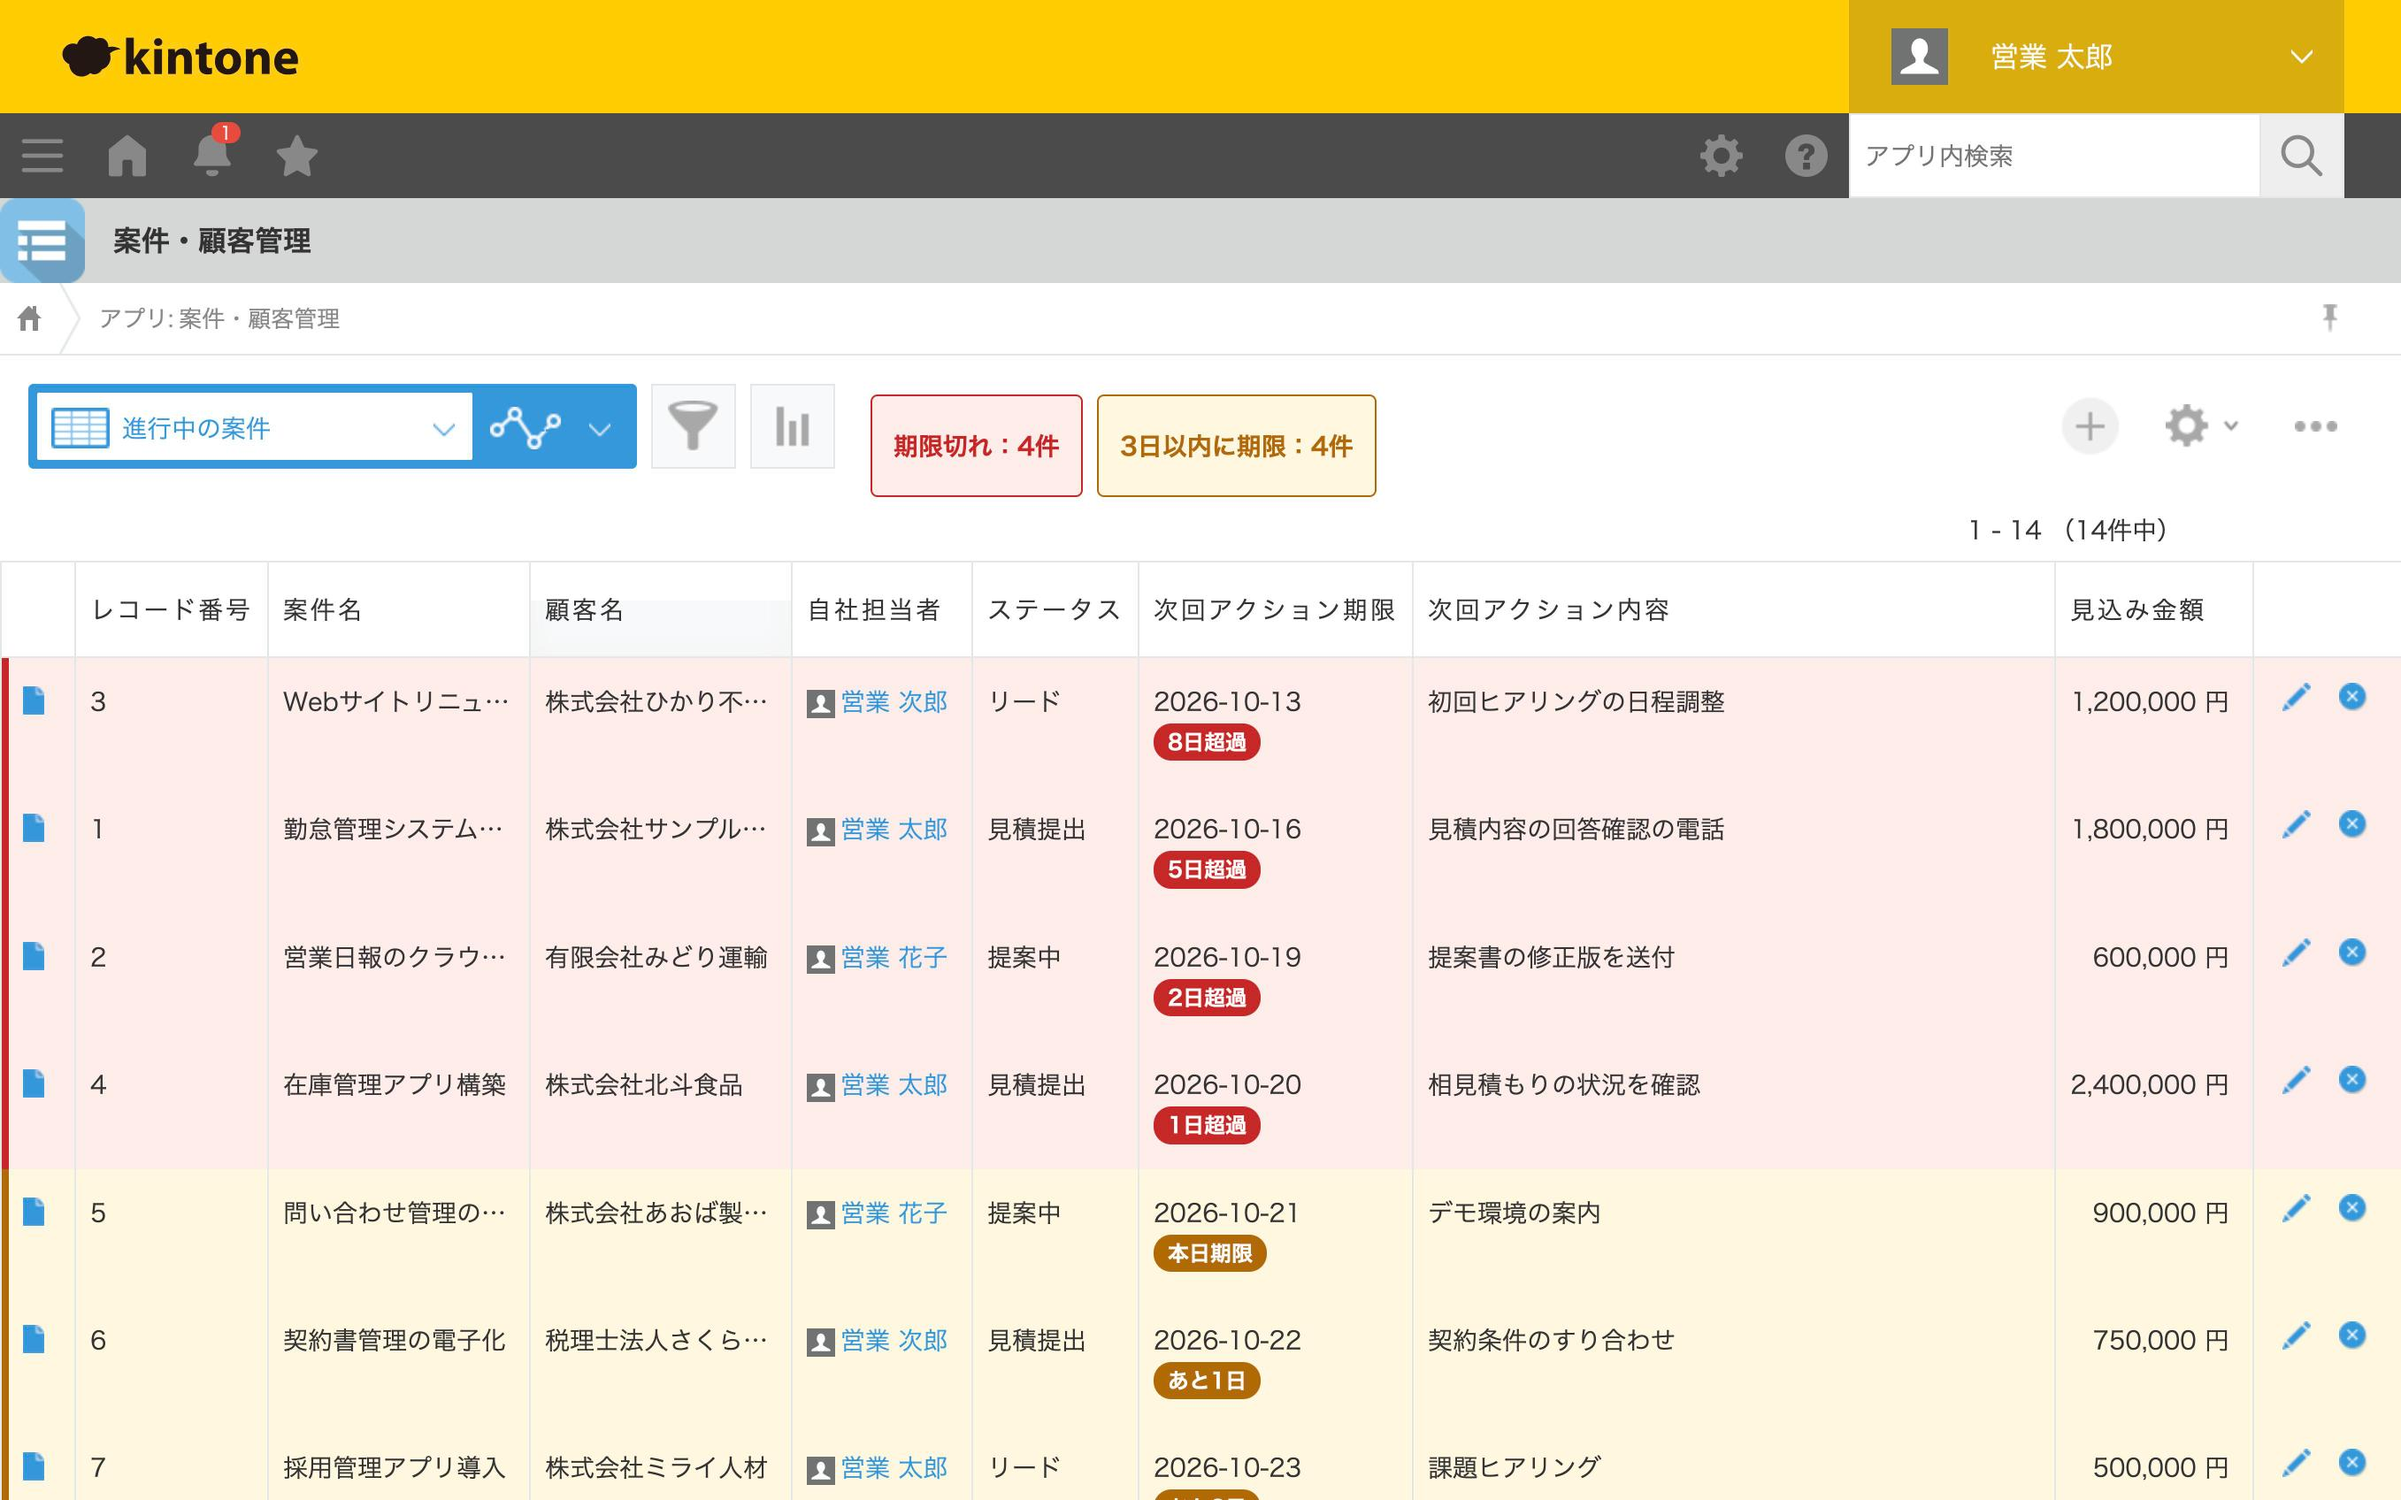
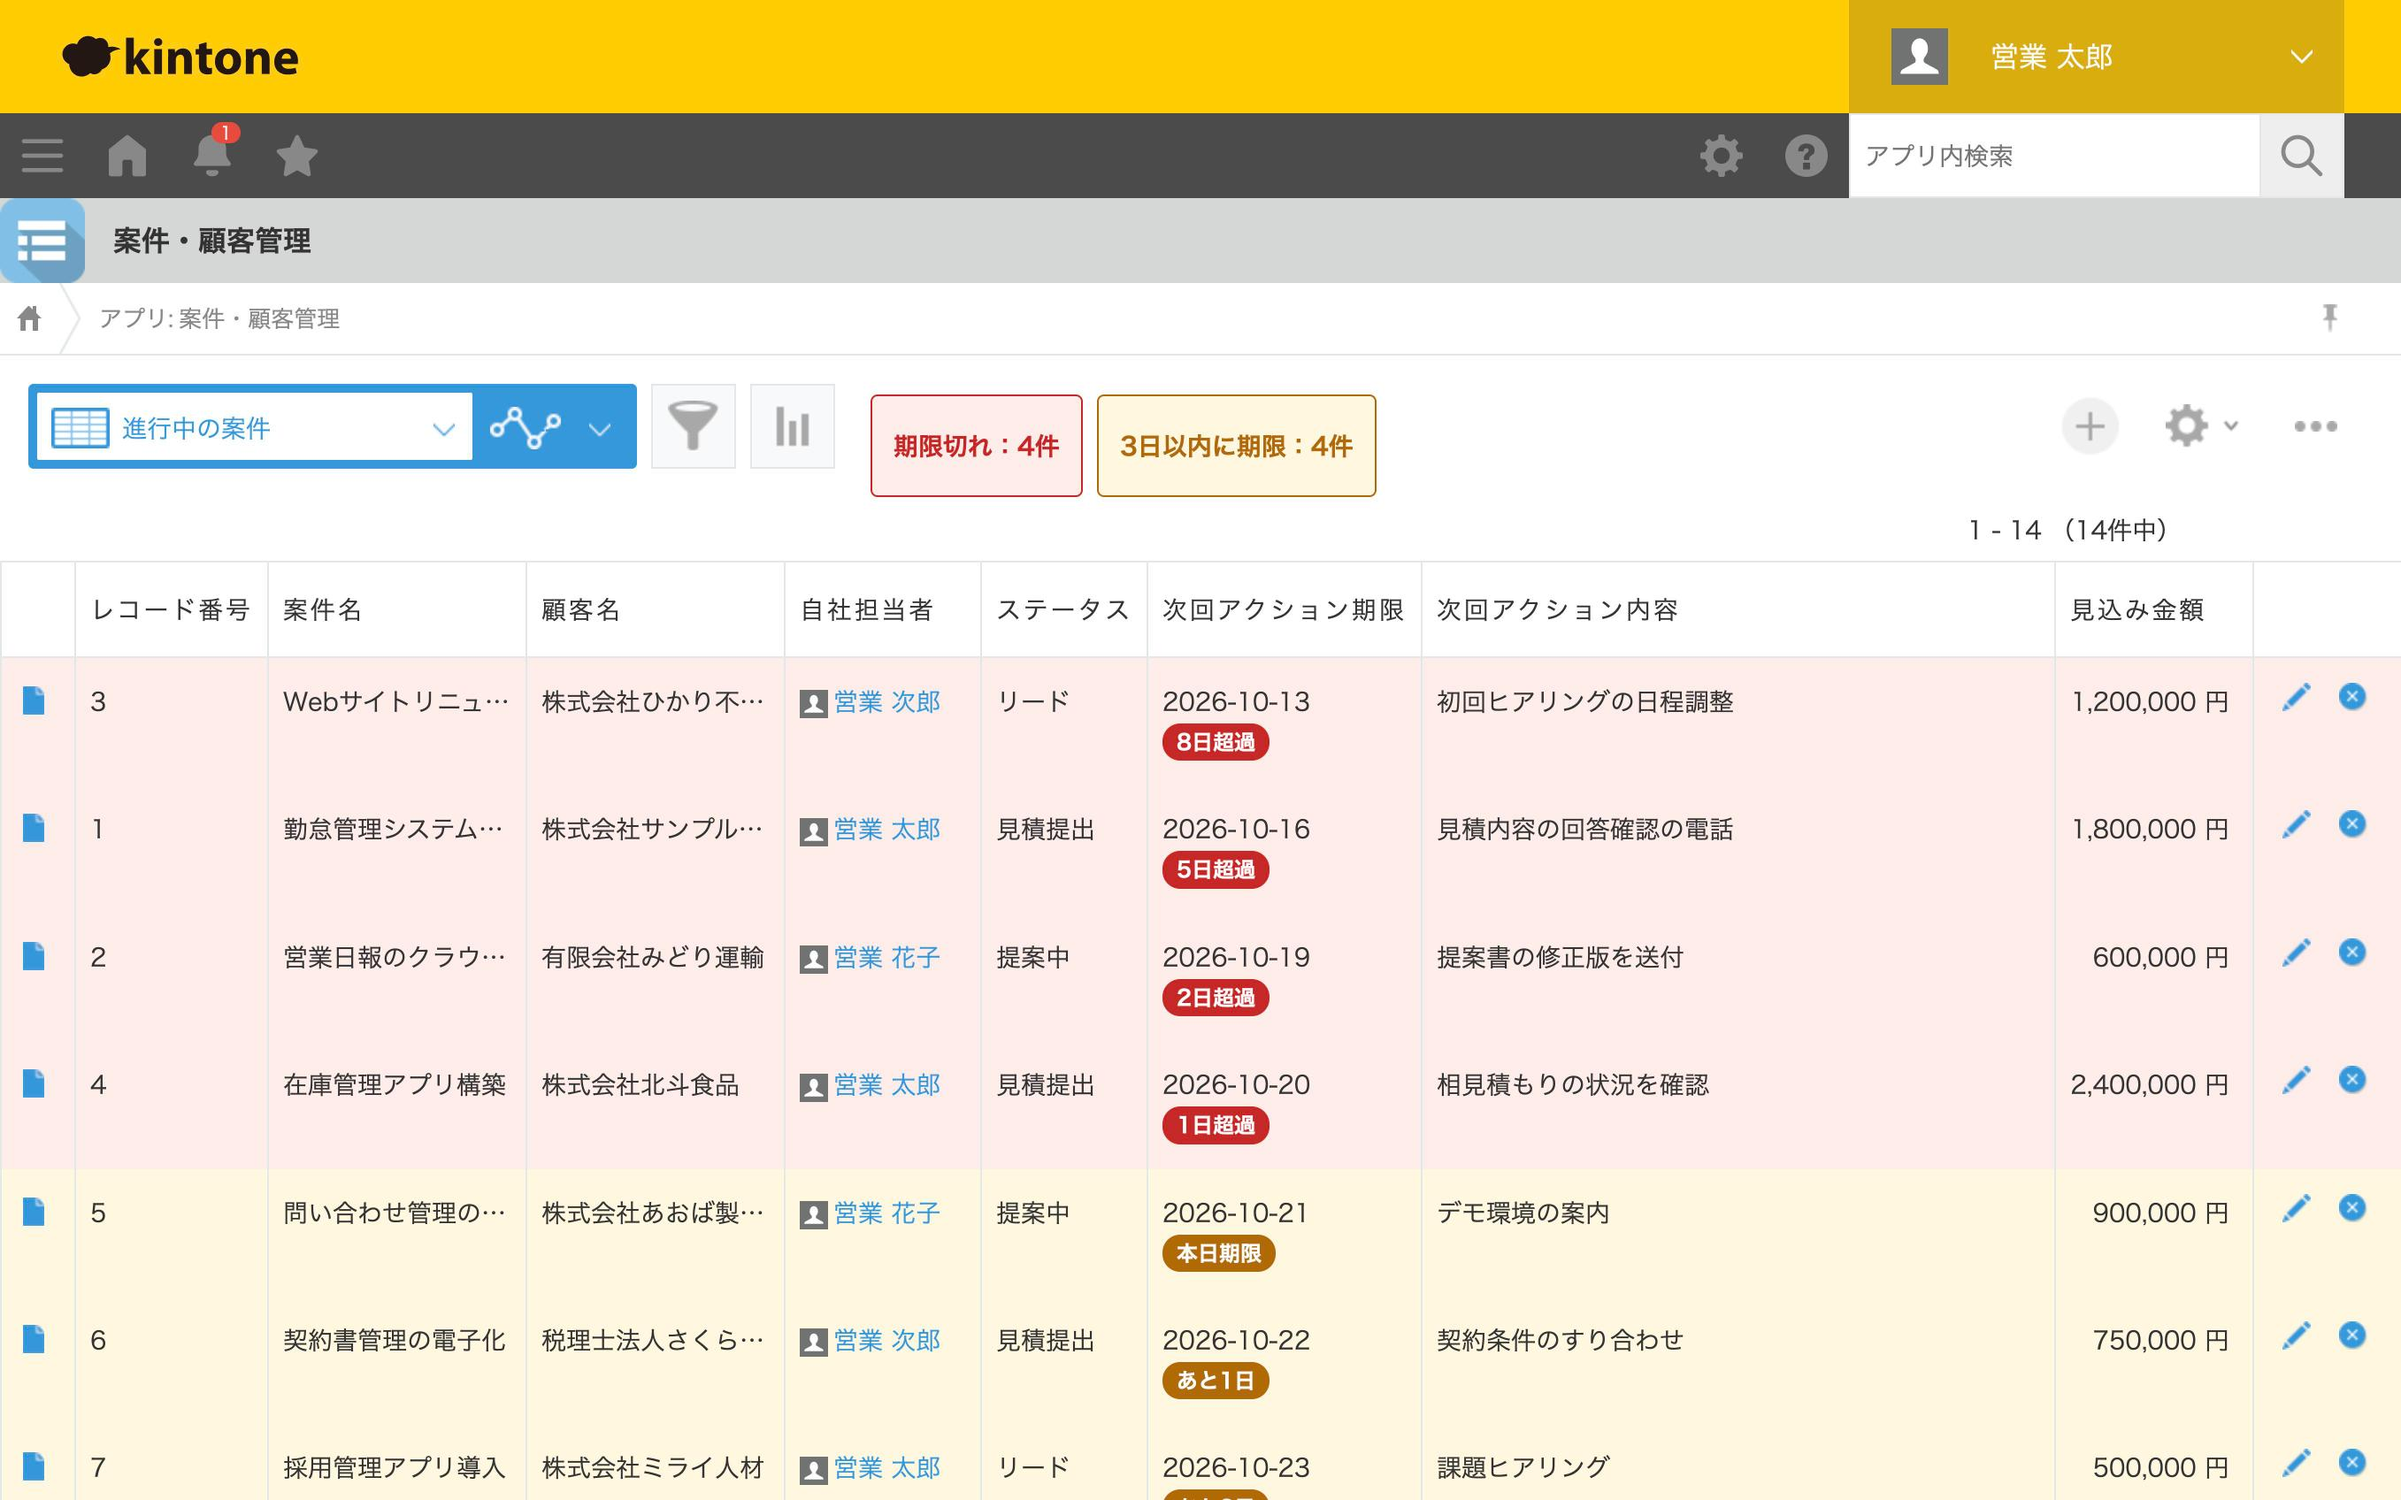
Remove left-edge row marker and retake list screenshots

diff --git a/01-deal-management/css/deal-management.css b/01-deal-management/css/deal-management.css
@@ -30,15 +30,6 @@ td.deal-row--due-soon {
   background-color: var(--deal-due-soon-bg) !important;
 }
 
-/* 期限切れの行は左端に赤い線を入れて、色の違いが分かりにくい人にも目立たせる */
-.deal-row--overdue > td:first-child {
-  box-shadow: inset 4px 0 0 var(--deal-overdue-strong);
-}
-
-.deal-row--due-soon > td:first-child {
-  box-shadow: inset 4px 0 0 var(--deal-due-soon-strong);
-}
-
 /* ------------------------------------------------------------
  * 一覧画面：期限セルのバッジ（「3日超過」「あと2日」など）
  * 色だけに頼らず、文字でも状態が分かるようにしています

diff --git a/01-deal-management/docs/02_portfolio.md b/01-deal-management/docs/02_portfolio.md
@@ -38,7 +38,7 @@ kintoneのJavaScriptカスタマイズで、次の3つを作りました。
   一覧に見えている件数だけを数えると、2ページ目以降に期限切れが隠れていても気づけません。kintone REST APIで「進行中かつ期限切れ」のレコード件数を取得し、絞り込みやページに関係なく正しい件数を表示しています。件数だけが必要なので、取得するデータは最小限にしています。
 
 - **色だけに頼らない表示**
-  色の見分けがつきにくい方でも分かるよう、行の左端の線と「3日超過」「あと2日」といった文字のバッジを併用しています。
+  色の見分けがつきにくい方でも分かるよう、行の色分けに「3日超過」「あと2日」といった文字のバッジを併用しています。
 
 - **終わった案件は警告しない**
   受注・失注の案件は期限の色分けや期限の必須チェックの対象外にし、本当に対応が必要な案件だけが目立つようにしています。また、一度「失注」にしてから戻した場合は失注理由を自動で空にし、集計のずれを防いでいます。
